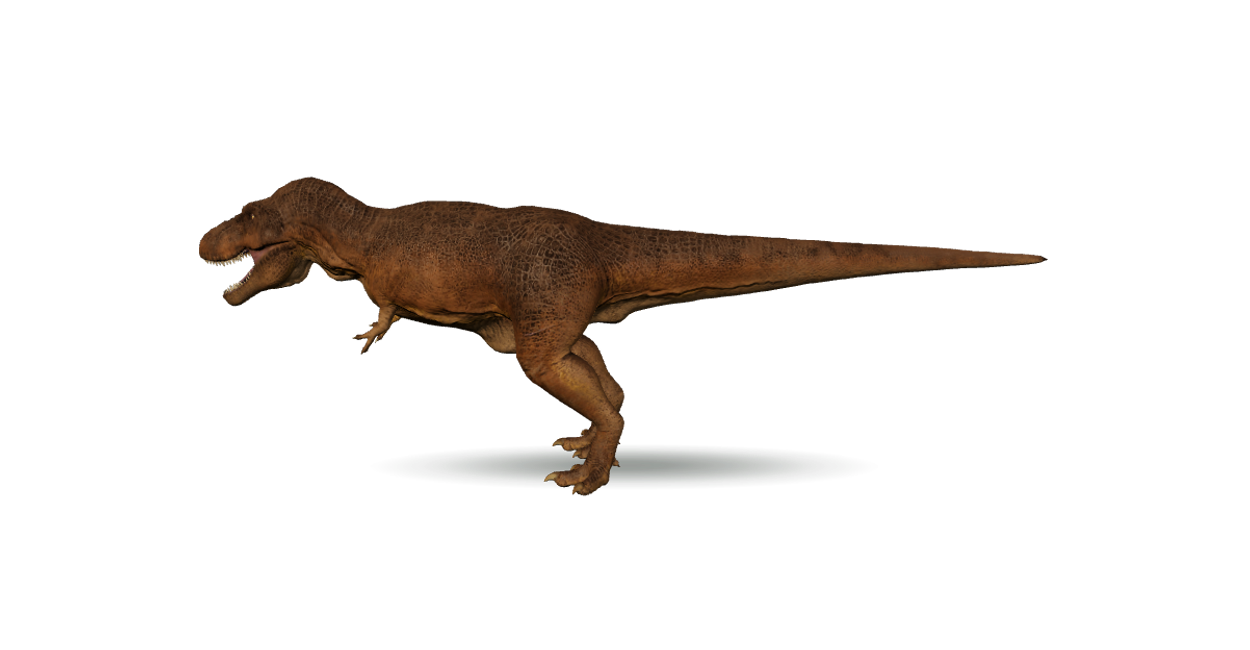
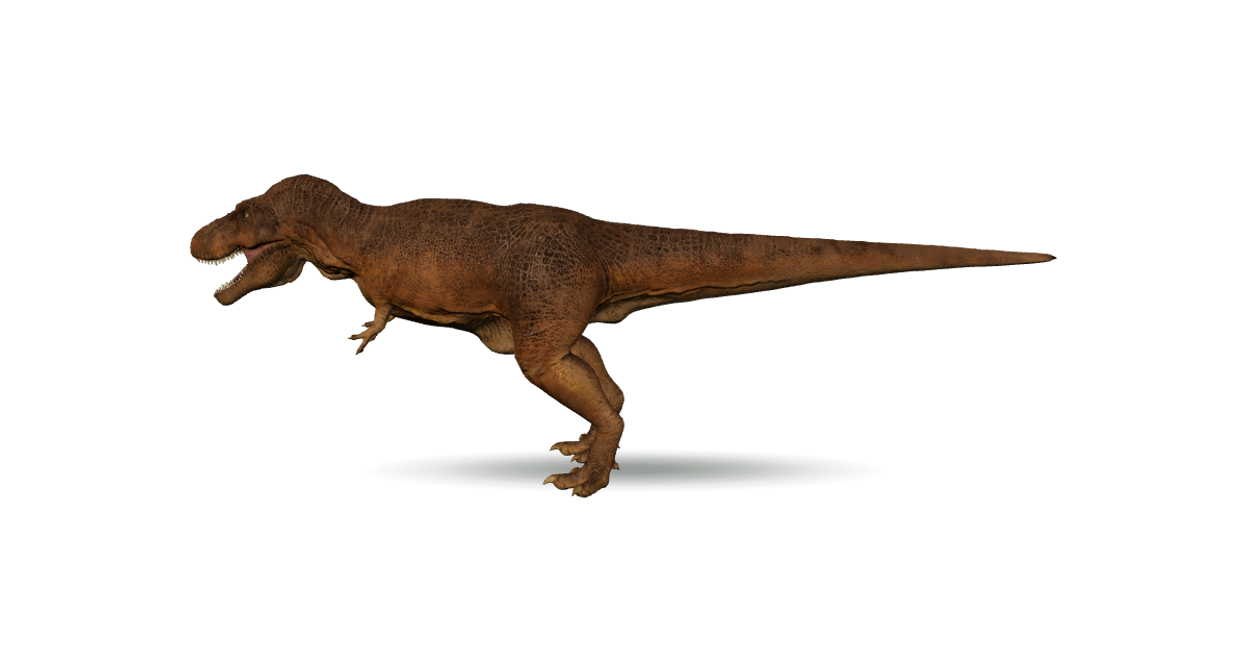
fix: repair tyrannosaurus skinning seams

diff --git a/tests/tyrannosaurus-skinning.test.ts b/tests/tyrannosaurus-skinning.test.ts
@@ -1,0 +1,197 @@
+import { NodeIO, type Accessor } from '@gltf-transform/core'
+import { ALL_EXTENSIONS } from '@gltf-transform/extensions'
+import { MeshoptDecoder } from 'meshoptimizer'
+
+type ConnectedComponent = readonly number[]
+
+function connectedComponents(
+  vertexCount: number,
+  indices: NonNullable<ReturnType<Accessor['getArray']>>,
+): ConnectedComponent[] {
+  const parents = Array.from({ length: vertexCount }, (_, index) => index)
+
+  const find = (initialIndex: number): number => {
+    let index = initialIndex
+    while (parents[index] !== index) {
+      parents[index] = parents[parents[index]!]!
+      index = parents[index]!
+    }
+    return index
+  }
+  const union = (left: number, right: number) => {
+    const leftRoot = find(left)
+    const rightRoot = find(right)
+    if (leftRoot !== rightRoot) parents[rightRoot] = leftRoot
+  }
+
+  for (let offset = 0; offset < indices.length; offset += 3) {
+    const left = Number(indices[offset])
+    const middle = Number(indices[offset + 1])
+    const right = Number(indices[offset + 2])
+    union(left, middle)
+    union(middle, right)
+    union(right, left)
+  }
+
+  const components = new Map<number, number[]>()
+  for (let index = 0; index < vertexCount; index += 1) {
+    const root = find(index)
+    const vertices = components.get(root) ?? []
+    vertices.push(index)
+    components.set(root, vertices)
+  }
+  return [...components.values()].sort(
+    (left, right) => right.length - left.length,
+  )
+}
+
+describe('Tyrannosaurus skinning', () => {
+  it('keeps the lower jaw and both hip seams attached while the feet stay planted', async () => {
+    await MeshoptDecoder.ready
+    const io = new NodeIO()
+      .registerExtensions(ALL_EXTENSIONS)
+      .registerDependencies({ 'meshopt.decoder': MeshoptDecoder })
+    const document = await io.read(
+      'src/content/animals/tyrannosaurus-rex/model/model.glb',
+    )
+    const root = document.getRoot()
+    const bodyMesh = root
+      .listMeshes()
+      .find((mesh) => mesh.getName().includes('Body'))
+    expect(bodyMesh).toBeDefined()
+    const primitive = bodyMesh!.listPrimitives()[0]!
+    const positions = primitive.getAttribute('POSITION')!
+    const normals = primitive.getAttribute('NORMAL')!
+    const joints = primitive.getAttribute('JOINTS_0')!
+    const weights = primitive.getAttribute('WEIGHTS_0')!
+    const indices = primitive.getIndices()!.getArray()!
+    const skin = root
+      .listNodes()
+      .find((node) => node.getMesh() === bodyMesh)
+      ?.getSkin()
+    expect(skin).toBeDefined()
+    const jointNames = skin!.listJoints().map((joint) => joint.getName())
+
+    const influence = (vertexIndex: number, jointName: string): number => {
+      const vertexJoints = joints.getElement(vertexIndex, [] as number[])
+      const vertexWeights = weights.getElement(vertexIndex, [] as number[])
+      let total = 0
+      for (let slot = 0; slot < vertexJoints.length; slot += 1) {
+        if (jointNames[vertexJoints[slot]!] === jointName) {
+          total += vertexWeights[slot]!
+        }
+      }
+      return total
+    }
+    const influencedVertices = (
+      component: ConnectedComponent,
+      jointName: string,
+    ) =>
+      component.filter((vertexIndex) => influence(vertexIndex, jointName) > 1e-5)
+
+    const components = connectedComponents(positions.getCount(), indices)
+    const integratedBody = components[0]!
+    expect(integratedBody.length).toBeGreaterThan(6_000)
+    expect(influencedVertices(integratedBody, 'jaw').length).toBeGreaterThan(
+      600,
+    )
+
+    const sharedMouthLining = components.find(
+      (component) =>
+        component.length >= 500 &&
+        component.length <= 600 &&
+        influencedVertices(component, 'head').length > 300 &&
+        influencedVertices(component, 'jaw').length > 150,
+    )
+    expect(sharedMouthLining).toBeDefined()
+
+    const lowerMouthFloor = [
+      ...integratedBody,
+      ...sharedMouthLining!,
+    ].filter((vertexIndex) => {
+      // Meshopt stores positions in its normalized quantization volume. This
+      // band maps to the upward-facing lower mouth floor in Blender space.
+      const position = positions.getElement(vertexIndex, [] as number[])
+      const normal = normals.getElement(vertexIndex, [] as number[])
+      return (
+        position[1]! >= 0.137 &&
+        position[1]! <= 0.153 &&
+        position[2]! >= 0.824 &&
+        position[2]! <= 0.873 &&
+        normal[1]! >= 0.02
+      )
+    })
+    expect(lowerMouthFloor.length).toBeGreaterThanOrEqual(45)
+    for (const vertexIndex of lowerMouthFloor) {
+      expect(influence(vertexIndex, 'jaw')).toBeGreaterThan(0.99)
+    }
+
+    const tongueSideLining = sharedMouthLining!.filter((vertexIndex) => {
+      // This narrower strip is the shared lining directly beside the tongue;
+      // partial head weights here reproduce the visible mouth separation.
+      const position = positions.getElement(vertexIndex, [] as number[])
+      const normal = normals.getElement(vertexIndex, [] as number[])
+      return (
+        position[1]! >= 0.1544 &&
+        position[1]! <= 0.1565 &&
+        position[2]! >= 0.8325 &&
+        position[2]! <= 0.8505 &&
+        normal[1]! >= 0.12
+      )
+    })
+    expect(tongueSideLining.length).toBeGreaterThanOrEqual(6)
+    for (const vertexIndex of tongueSideLining) {
+      expect(influence(vertexIndex, 'jaw')).toBeGreaterThan(0.99)
+    }
+
+    const bodyVerticesByPosition = new Map<string, number[]>()
+    for (const vertexIndex of integratedBody) {
+      const key = positions
+        .getElement(vertexIndex, [] as number[])
+        .join(',')
+      const matches = bodyVerticesByPosition.get(key) ?? []
+      matches.push(vertexIndex)
+      bodyVerticesByPosition.set(key, matches)
+    }
+
+    for (const legName of ['leg_left', 'leg_right'] as const) {
+      const upperLeg = components.find(
+        (component) =>
+          component.length >= 1_100 &&
+          component.length <= 1_300 &&
+          influencedVertices(component, legName).length > 1_100,
+      )
+      expect(upperLeg).toBeDefined()
+      expect(influencedVertices(upperLeg!, 'spine').length).toBeGreaterThan(
+        270,
+      )
+
+      const seamPairs: Array<readonly [number, number]> = []
+      for (const legVertex of upperLeg!) {
+        const key = positions
+          .getElement(legVertex, [] as number[])
+          .join(',')
+        for (const bodyVertex of bodyVerticesByPosition.get(key) ?? []) {
+          seamPairs.push([legVertex, bodyVertex])
+        }
+      }
+      expect(seamPairs).toHaveLength(33)
+      for (const [legVertex, bodyVertex] of seamPairs) {
+        expect(influence(legVertex, 'spine')).toBeCloseTo(
+          influence(bodyVertex, 'spine'),
+          5,
+        )
+        expect(influence(legVertex, legName)).toBeLessThan(1e-5)
+      }
+
+      const plantedFoot = components.find(
+        (component) =>
+          component.length >= 800 &&
+          component.length <= 900 &&
+          influencedVertices(component, legName).length > 800,
+      )
+      expect(plantedFoot).toBeDefined()
+      expect(influencedVertices(plantedFoot!, 'spine')).toHaveLength(0)
+    }
+  })
+})

diff --git a/src/review/animals/tyrannosaurus-rex/package.ts b/src/review/animals/tyrannosaurus-rex/package.ts
@@ -31,7 +31,7 @@ export const animal = {
   provenance: [],
   assets: {
     model: reviewAssetUrl('tyrannosaurus-rex', 'model.glb'),
-    modelBytes: 6_298_928,
+    modelBytes: 6_304_976,
     poster: reviewAssetUrl('tyrannosaurus-rex', 'poster.webp'),
     posterPortrait: reviewAssetUrl(
       'tyrannosaurus-rex',
@@ -57,14 +57,14 @@ export const animal = {
   },
   review: {
     badge: '待复看',
-    status: '前爪连接与正常咬合 Idle 待复看',
+    status: '嘴部、髋部与前爪连接待复看',
     note:
-      '保留已确认方向正确的二次提亮贴图、13 骨骼与 8 秒原地 Idle。根据近景截图，把左右前肢各两枚原本错误跟随头颈的独立指甲组件重新绑定到对应手臂，使指甲与手指全程同步。嘴部保留约 4° 以内的两段式轻缓咬合：下颌皮肤、下牙与舌头共同跟随下颌，上颚和上牙保持跟随头骨，避免再次出现牙齿与嘴分离。',
+      '保留已确认方向正确的二次提亮贴图、13 骨骼与 8 秒原地 Idle。左右前肢的独立指甲组件继续跟随对应手臂。嘴部保留约 4° 以内的两段式轻缓咬合，并把与头部连成一体的外侧下颌和共享口腔内衬分区绑定到下颌，在铰链与嘴缘平滑过渡。左右髋部的重合接缝使用同一组脊柱权重，再沿上腿逐渐过渡到静止腿骨，使臀腿不再裂开且双脚继续落地。',
     checks: [
       '近距离完整观看至少一个循环，确认两侧前爪的四枚指甲始终贴着手指，没有漂浮、迟滞或穿插。',
       '确认两段式嘴部开合清楚，闭合时上下牙列回到自然位置，张嘴时舌头、上下牙列、嘴唇和吻部没有分离或穿模。',
       '确认两脚始终落地，头颈、短前肢和长尾的动作幅度清楚，同时腹部与髋部没有裂缝。',
-      '模型约 5.9 万三角面、9.1 MiB、2 个绘制批次；检查手机首次载入、动画、旋转、连续切换和发热。',
+      '模型约 5.9 万三角面、6.0 MiB、2 个绘制批次；检查手机首次载入、动画、旋转、连续切换和发热。',
       '把嘴唇、露齿、颜色和其他软组织明确视为一种复原，不把尚有争议的细节讲成唯一结论。',
       '旁白中的“霸王龙”“白垩世”与完整播放已通过本轮听审；只有重新生成音频时才重开该门槛。',
     ],

diff --git a/src/content/animals/tyrannosaurus-rex/provenance.ts b/src/content/animals/tyrannosaurus-rex/provenance.ts
@@ -19,9 +19,9 @@ const baseProvenance = createPublishedAssetProvenance({
[1 lines of base64/hex data omitted]
     },
     runtime: {
-      bytes: 6_298_928,
+      bytes: 6_304_976,
       sha256:
[2 lines of base64/hex data omitted]
     },
     modifications: [
       'Compressed geometry and animation with high-precision Meshopt and converted embedded PNG textures to lossless WebP for browser delivery.',
@@ -31,7 +31,8 @@ const baseProvenance = createPublishedAssetProvenance({
       'Built a project-authored 13-bone Blender armature and deterministic skin weights, with stationary root and leg bones to keep both feet planted.',
       'Reassigned both detached fingernail components on each forelimb to the same arm bone as their corresponding fingers after close-up owner review.',
       'Authored an eight-second in-place Idle with visible spine, neck, head, arm, and four-bone tail motion plus a controlled two-pulse bite whose lower-jaw opening remains at or below approximately 4 degrees.',
-      'Separated lower-jaw skin, teeth, and tongue membership from the upper palate after close-up owner review so the skin and teeth follow their respective jaw surfaces throughout both opening-and-closing pulses.',
+      'Reweighted the integrated outer lower-jaw skin and split the shared mouth lining between head and jaw, with smooth hinge and mouth-edge transitions so the skin, lower teeth, and tongue remain together throughout both opening-and-closing pulses.',
+      'Matched both 33-vertex hip seam rings to the torso spine weights, then blended each upper leg back to its stationary leg bone over 0.16 model units so the hips remain closed while both feet stay planted.',
       'Normalized the Blender export to one closed-loop Idle clip with ten rotation-only channels, then validator-checked and reviewed the derivative in the shared museum viewer.',
     ],
   },

diff --git a/src/content/credits.generated.ts b/src/content/credits.generated.ts
@@ -2244,7 +2244,8 @@ export const credits = [
       "Built a project-authored 13-bone Blender armature and deterministic skin weights, with stationary root and leg bones to keep both feet planted.",
       "Reassigned both detached fingernail components on each forelimb to the same arm bone as their corresponding fingers after close-up owner review.",
       "Authored an eight-second in-place Idle with visible spine, neck, head, arm, and four-bone tail motion plus a controlled two-pulse bite whose lower-jaw opening remains at or below approximately 4 degrees.",
-      "Separated lower-jaw skin, teeth, and tongue membership from the upper palate after close-up owner review so the skin and teeth follow their respective jaw surfaces throughout both opening-and-closing pulses.",
+      "Reweighted the integrated outer lower-jaw skin and split the shared mouth lining between head and jaw, with smooth hinge and mouth-edge transitions so the skin, lower teeth, and tongue remain together throughout both opening-and-closing pulses.",
+      "Matched both 33-vertex hip seam rings to the torso spine weights, then blended each upper leg back to its stationary leg bone over 0.16 model units so the hips remain closed while both feet stay planted.",
       "Normalized the Blender export to one closed-loop Idle clip with ten rotation-only channels, then validator-checked and reviewed the derivative in the shared museum viewer."
     ]
   }

diff --git a/tests/review-catalog.test.ts b/tests/review-catalog.test.ts
@@ -435,9 +435,7 @@ describe('local collection review catalog', () => {
     }
 
     expect(tyrannosaurus?.review?.badge).toBe('待复看')
-    expect(tyrannosaurus?.review?.status).toBe(
-      '前爪连接与正常咬合 Idle 待复看',
-    )
+    expect(tyrannosaurus?.review?.status).toBe('嘴部、髋部与前爪连接待复看')
     expect(tyrannosaurus?.animation).toEqual({
       clip: 'Idle',
       loop: 'repeat',
@@ -447,6 +445,7 @@ describe('local collection review catalog', () => {
     expect(tyrannosaurus?.review?.note).toContain('约 4°')
     expect(tyrannosaurus?.review?.note).toContain('指甲组件')
     expect(tyrannosaurus?.review?.note).toContain('两段式')
+    expect(tyrannosaurus?.review?.note).toContain('髋部')
     expect(triceratops?.animation).toEqual({
       clip: 'Idle',
       loop: 'repeat',

diff --git a/THIRD_PARTY_NOTICES.md b/THIRD_PARTY_NOTICES.md
@@ -1558,7 +1558,7 @@ content, contributions, and Brand Assets follow the separate scopes in
 - Source: [Tyrant King - Tyrannosaurus](https://sketchfab.com/3d-models/tyrant-king-tyrannosaurus-6465a297fa784598adc49f6e0042d449) by Marcel Schanz
 - License: [Creative Commons Attribution 4.0 International](https://creativecommons.org/licenses/by/4.0/)
 - Attribution: “Tyrant King - Tyrannosaurus” by Marcel Schanz, CC BY 4.0; modified for the Prehistoric Animal Museum.
[2 lines of base64/hex data omitted]
 - Modifications:
   - Compressed geometry and animation with high-precision Meshopt and converted embedded PNG textures to lossless WebP for browser delivery.
   - Normalized and repacked the self-contained 1K-texture GLB.
@@ -1567,5 +1567,6 @@ content, contributions, and Brand Assets follow the separate scopes in
   - Built a project-authored 13-bone Blender armature and deterministic skin weights, with stationary root and leg bones to keep both feet planted.
   - Reassigned both detached fingernail components on each forelimb to the same arm bone as their corresponding fingers after close-up owner review.
   - Authored an eight-second in-place Idle with visible spine, neck, head, arm, and four-bone tail motion plus a controlled two-pulse bite whose lower-jaw opening remains at or below approximately 4 degrees.
-  - Separated lower-jaw skin, teeth, and tongue membership from the upper palate after close-up owner review so the skin and teeth follow their respective jaw surfaces throughout both opening-and-closing pulses.
+  - Reweighted the integrated outer lower-jaw skin and split the shared mouth lining between head and jaw, with smooth hinge and mouth-edge transitions so the skin, lower teeth, and tongue remain together throughout both opening-and-closing pulses.
+  - Matched both 33-vertex hip seam rings to the torso spine weights, then blended each upper leg back to its stationary leg bone over 0.16 model units so the hips remain closed while both feet stay planted.
   - Normalized the Blender export to one closed-loop Idle clip with ten rotation-only channels, then validator-checked and reviewed the derivative in the shared museum viewer.
